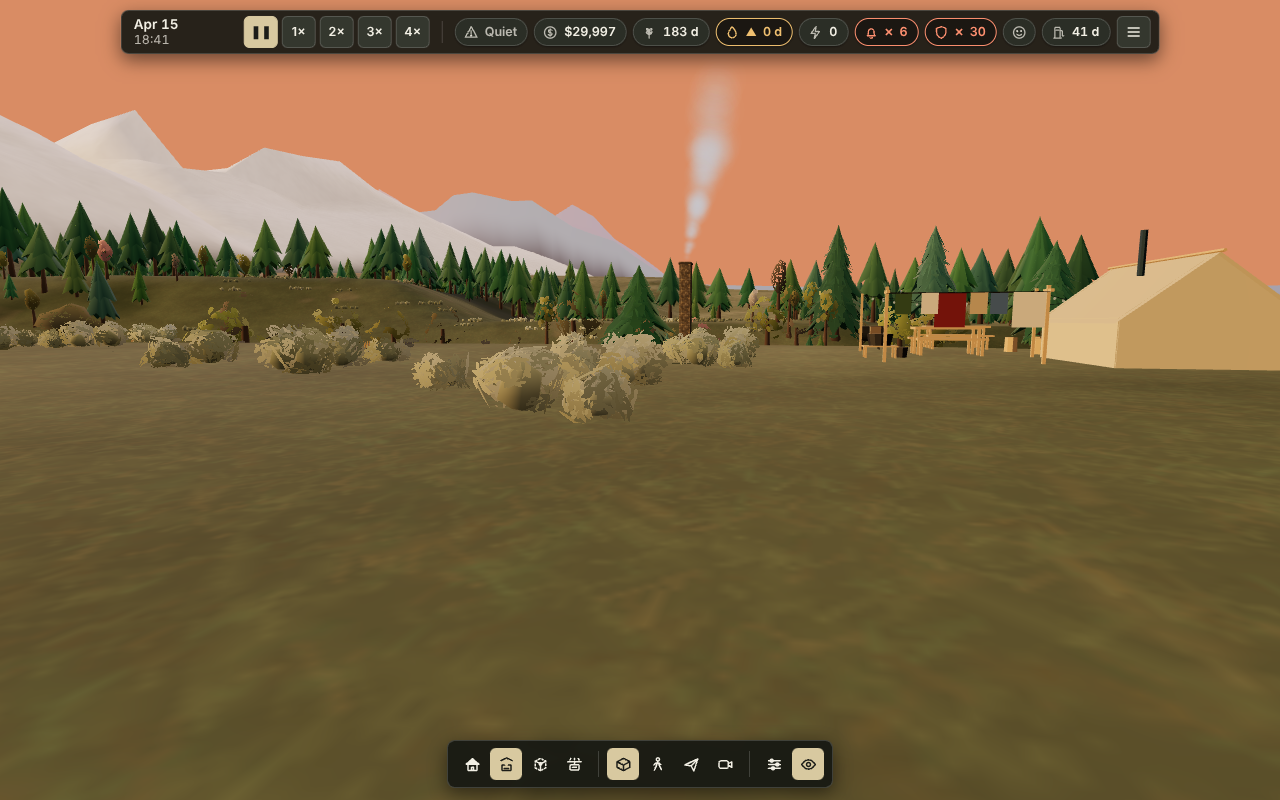
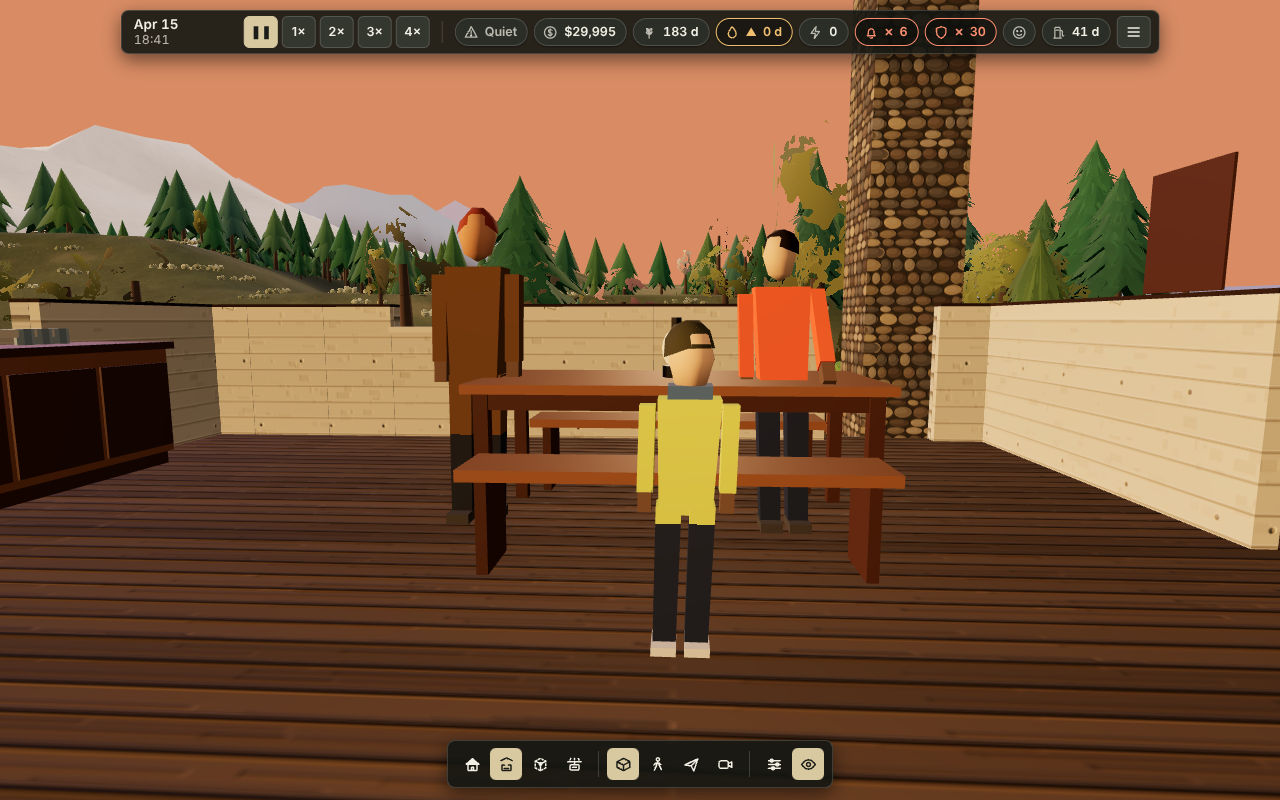
Raid report: no empty more, supplies line in plain words, turn-back text names what exists; harness fixes and frames

diff --git a/src/sim/encounters.ts b/src/sim/encounters.ts
@@ -1028,13 +1028,14 @@ export function resolve(s: GameState, stance: Stance): Outcome {
       if (deterred) { title = 'They thought better of it'; text = 'A shot over the truck and the walls behind it. They turn around in the road.'; tone = 'good'; if (e.kind === 'refugees') g.humanity = Math.max(0, g.humanity - 5); }
       else stance = 'defend';
     }
-    const deter = stance === 'defend' && !skipFight ? deterrence(s, p).score : 0;
+    const deterAll = stance === 'defend' && !skipFight ? deterrence(s, p) : null;
+    const deter = deterAll?.score ?? 0;
     if (stance === 'defend' && !skipFight) {
       // the fight itself, second by second (sim/battle.ts); the world can play it back from g.battle
       // a crew up inside the wall (tunnelers), or one that finds a hatch outside it (an underground passage's way in): no wall to get over
       // first contact (sim/deterrence.ts): guards, dogs, cameras, the wall and towers can turn the crew back before a shot
       if (!e.dig && !e.insiderHelp && !talkAmbush && r() < turnBackChance(deter, e, angry)) {
-        title = 'They thought better of it'; tone = 'good'; text = 'They looked the place over from the road, the wall, the men on it and what watched from the poles, and the crew turned round. No shot was fired.';
+        title = 'They thought better of it'; tone = 'good'; text = `They looked the place over from the road${deterAll?.lines.length ? `: ${deterAll.lines.join(', ')}` : ''}, and the crew turned round. No shot was fired.`;
         g.respect = Math.min(1, (g.respect ?? 0) + 0.12); g.next = Math.max(g.next, e.day + Math.round(12 + 30 * g.respect)); g.raidsHeld++;
         skipFight = true;
       }

diff --git a/src/ui/CutsceneOverlay.tsx b/src/ui/CutsceneOverlay.tsx
@@ -128,9 +128,10 @@ function Offer() {
 /** The report's detail, folded: rounds fired and the stray lines. */
 function MoreLines({ rounds, lines }: { rounds: number; lines: string[] }) {
   const [open, setOpen] = useState(false);
+  if (rounds <= 0 && lines.length === 0) return null;   // nothing to add: no empty "more" that only says 0 rounds
   return <div style={{ marginTop: 5, fontSize: 12.5 }}>
-    <button onClick={() => setOpen(!open)} style={{ background: 'transparent', border: 0, padding: 0, color: '#d8c9a0', cursor: 'pointer', fontSize: 12.5, fontFamily: 'inherit' }}>{open ? '\u25BE less' : `\u25B8 more (${pluralize(rounds, 'round')} fired${lines.length ? `, ${pluralize(lines.length, 'note')}` : ''})`}</button>
-    {open && <div style={{ opacity: 0.8 }}><div style={{ marginTop: 4 }}>Rounds fired: {rounds}</div>{lines.map((l, i) => <div key={i} style={{ marginTop: 4 }}>{l}</div>)}</div>}
+    <button onClick={() => setOpen(!open)} style={{ background: 'transparent', border: 0, padding: 0, color: '#d8c9a0', cursor: 'pointer', fontSize: 12.5, fontFamily: 'inherit' }}>{open ? '\u25BE less' : `\u25B8 more (${[rounds > 0 ? `${pluralize(rounds, 'round')} fired` : '', lines.length ? pluralize(lines.length, 'note') : ''].filter(Boolean).join(', ')})`}</button>
+    {open && <div style={{ opacity: 0.8 }}>{rounds > 0 && <div style={{ marginTop: 4 }}>Rounds fired: {rounds}</div>}{lines.map((l, i) => <div key={i} style={{ marginTop: 4 }}>{l}</div>)}</div>}
   </div>;
 }
 

diff --git a/src/sim/raidBreakdown.ts b/src/sim/raidBreakdown.ts
@@ -10,6 +10,7 @@ import { PERIMETER, runFinished, type PerimeterKind } from './perimeter';
 import { isGuardUnit } from './defenseTune';
 import { dogCount } from './pets';
 import { pluralize } from './words';
+import { lootLines } from './raidFacts';
 
 export type Layer = 'wall' | 'towers' | 'guards' | 'dogs' | 'cameras' | 'family' | 'hiding' | 'supplies';
 
@@ -143,7 +144,7 @@ export function raidBreakdown(g: GameState, b: Battle, lost: ReadonlyArray<reado
 
   // supplies
   const stolen = f.loot.reduce((a, l) => a + l.n, 0);
-  if (stolen > 0 || lost.length > 0) lines.push({ layer: 'supplies', held: false, text: `Supplies lost: ${[...f.loot.map(l => `${l.n} ${l.what}`), ...lost.map(([k2, n]) => `${n} ${k2}`)].slice(0, 6).join(', ')}.` });
+  if (stolen > 0 || lost.length > 0) lines.push({ layer: 'supplies', held: false, text: `Supplies lost: ${(f.loot.length > 0 ? lootLines(f.loot) : lost.map(([k2, n]) => `${n} ${k2}`)).slice(0, 6).join(', ')}.` });   // the itemized loot reads in the report's own words; the stock list is the same goods under raw names
   else lines.push({ layer: 'supplies', held: true, text: 'Nothing was carried off.' });
 
   const headline = won
